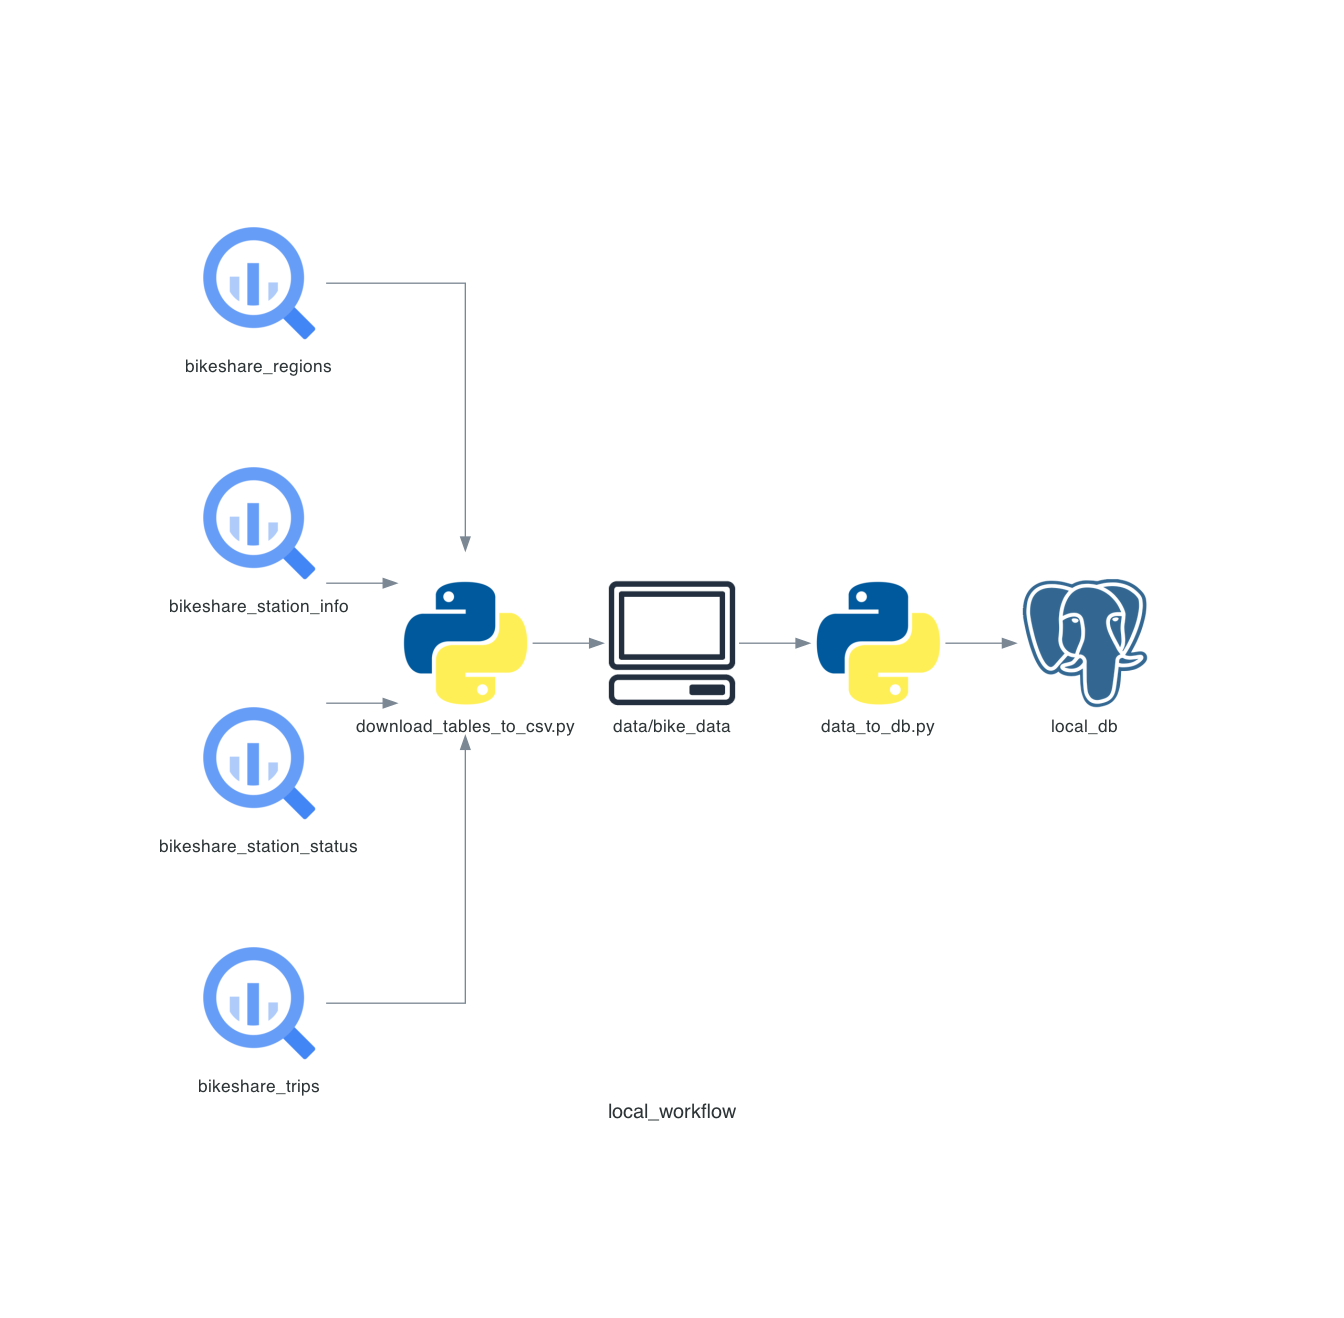
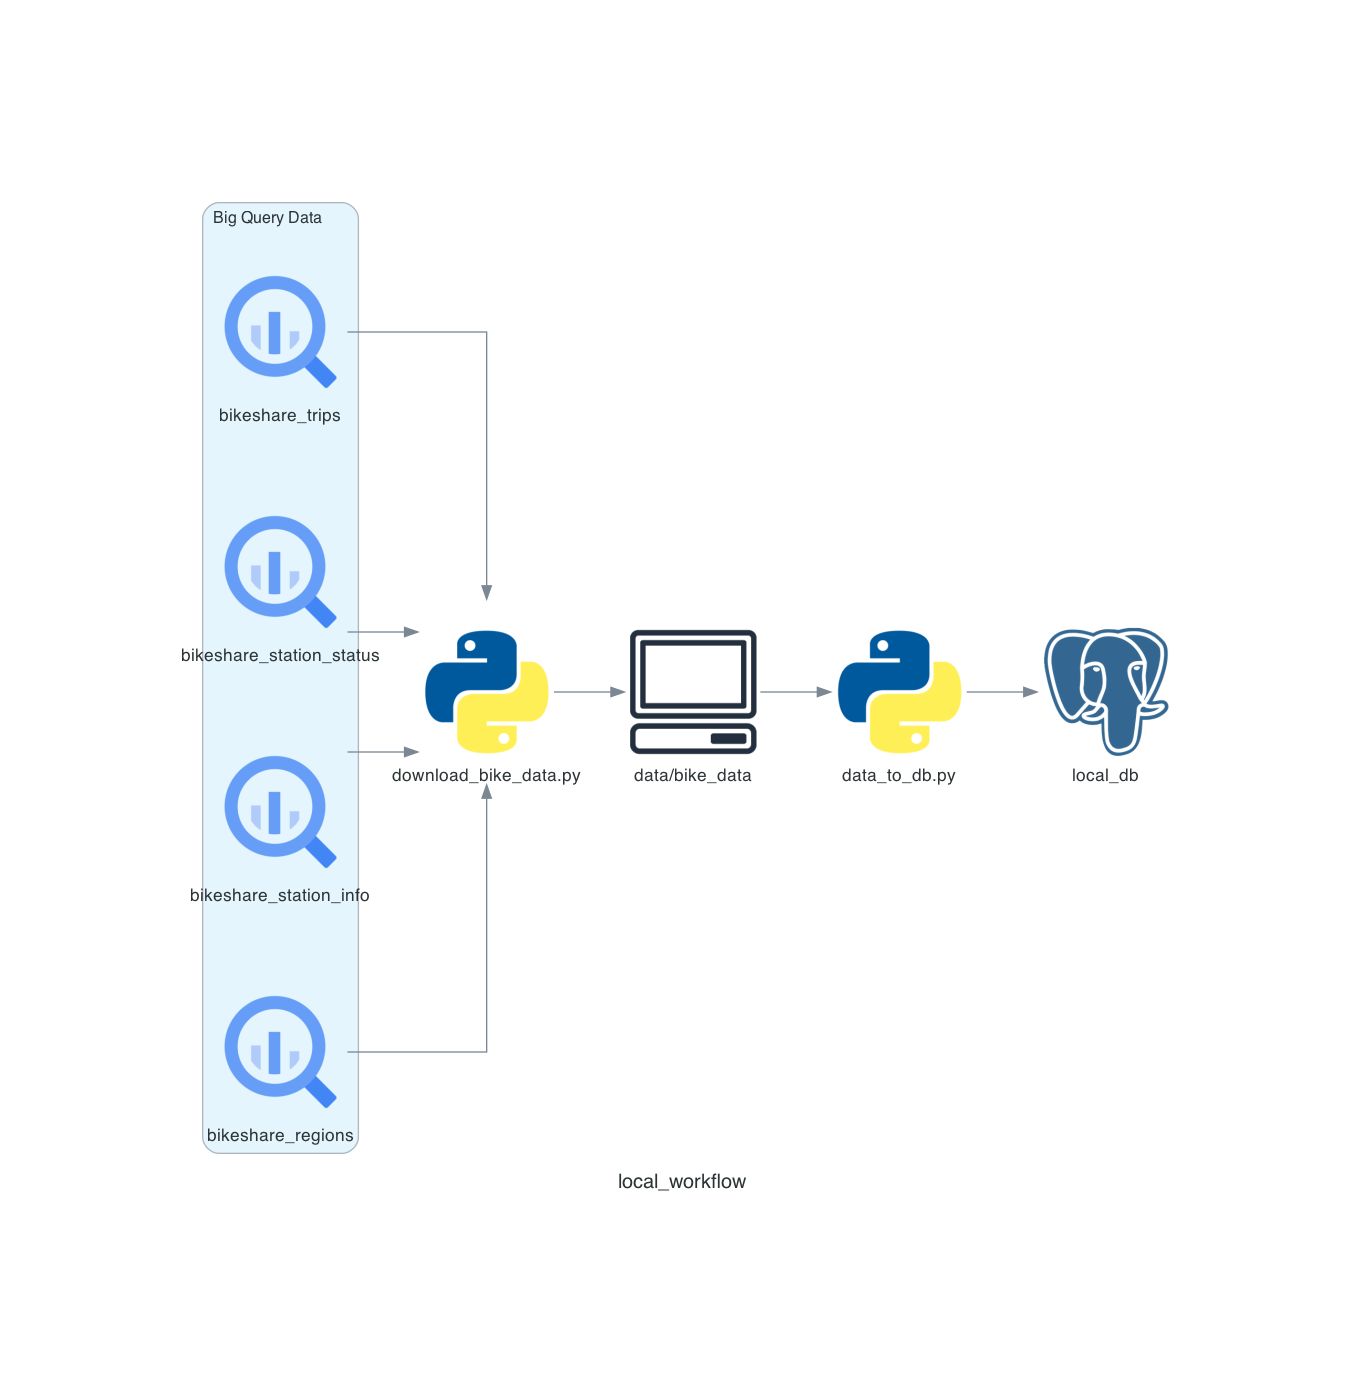
light upgrade to diagram

diff --git a/diagrams/diagram.py b/diagrams/diagram.py
@@ -1,4 +1,4 @@
-from diagrams import Diagram
+from diagrams import Diagram, Cluster
 from diagrams.programming.language import Python
 from diagrams.gcp.analytics import BigQuery
 from diagrams.onprem.client import Client
@@ -6,9 +6,13 @@ from diagrams.onprem.database import PostgreSQL
 
 
 with Diagram("local_workflow", show=False):
-    initial_bike_data = [BigQuery("bikeshare_regions"),
-    BigQuery("bikeshare_station_info"),
-    BigQuery("bikeshare_station_status"),
-    BigQuery("bikeshare_trips")]
+    with Cluster("Big Query Data"):
+        initial_bike_data = [BigQuery("bikeshare_regions"),
+        BigQuery("bikeshare_station_info"),
+        BigQuery("bikeshare_station_status"),
+        BigQuery("bikeshare_trips")]
 
-    initial_bike_data >> Python('download_tables_to_csv.py') >> Client('data/bike_data') >> Python('data_to_db.py') >> PostgreSQL('local_db')
+    initial_bike_data >> Python('download_bike_data.py') >> \
+    Client('data/bike_data') >> Python('data_to_db.py') >>  \
+    PostgreSQL('local_db')
+    
